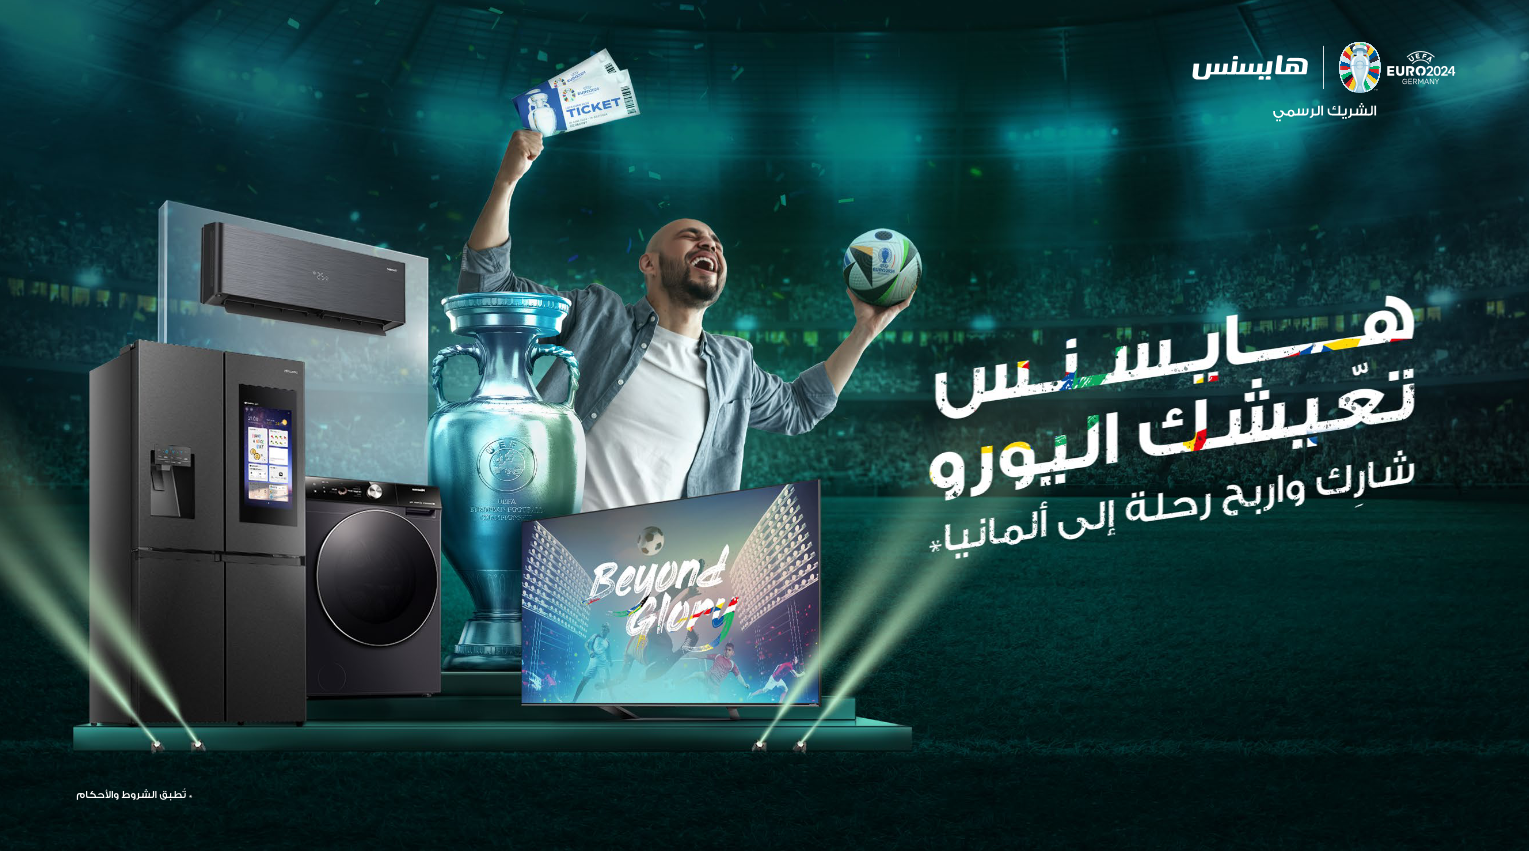
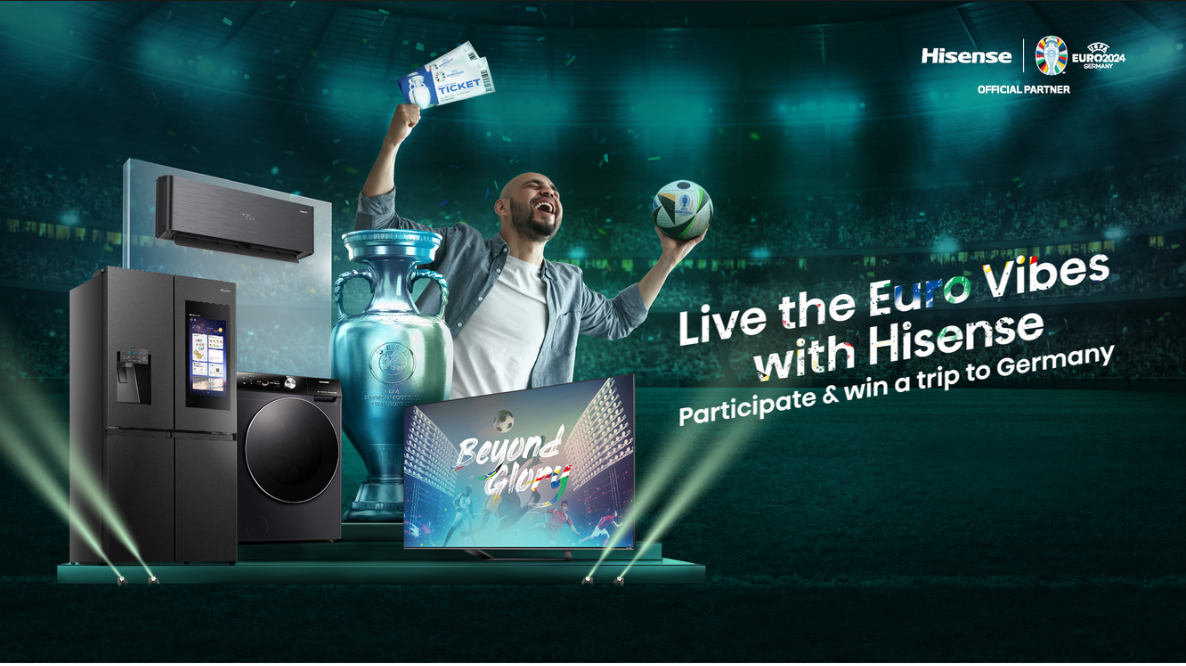
change english kv

diff --git a/index-en.html b/index-en.html
@@ -181,7 +181,7 @@
     <div id="AR">
         <!-- Feature image -->
         <div class="featured-image">
-            <img class="feature-image" src="assets/images/new-Feature-image-home-en.png" />
+            <img class="feature-image" src="assets/images/new-Feature-image-home-ar.png" />
         </div>
         <!-- END Feature image -->
         <main class="main-content ">
